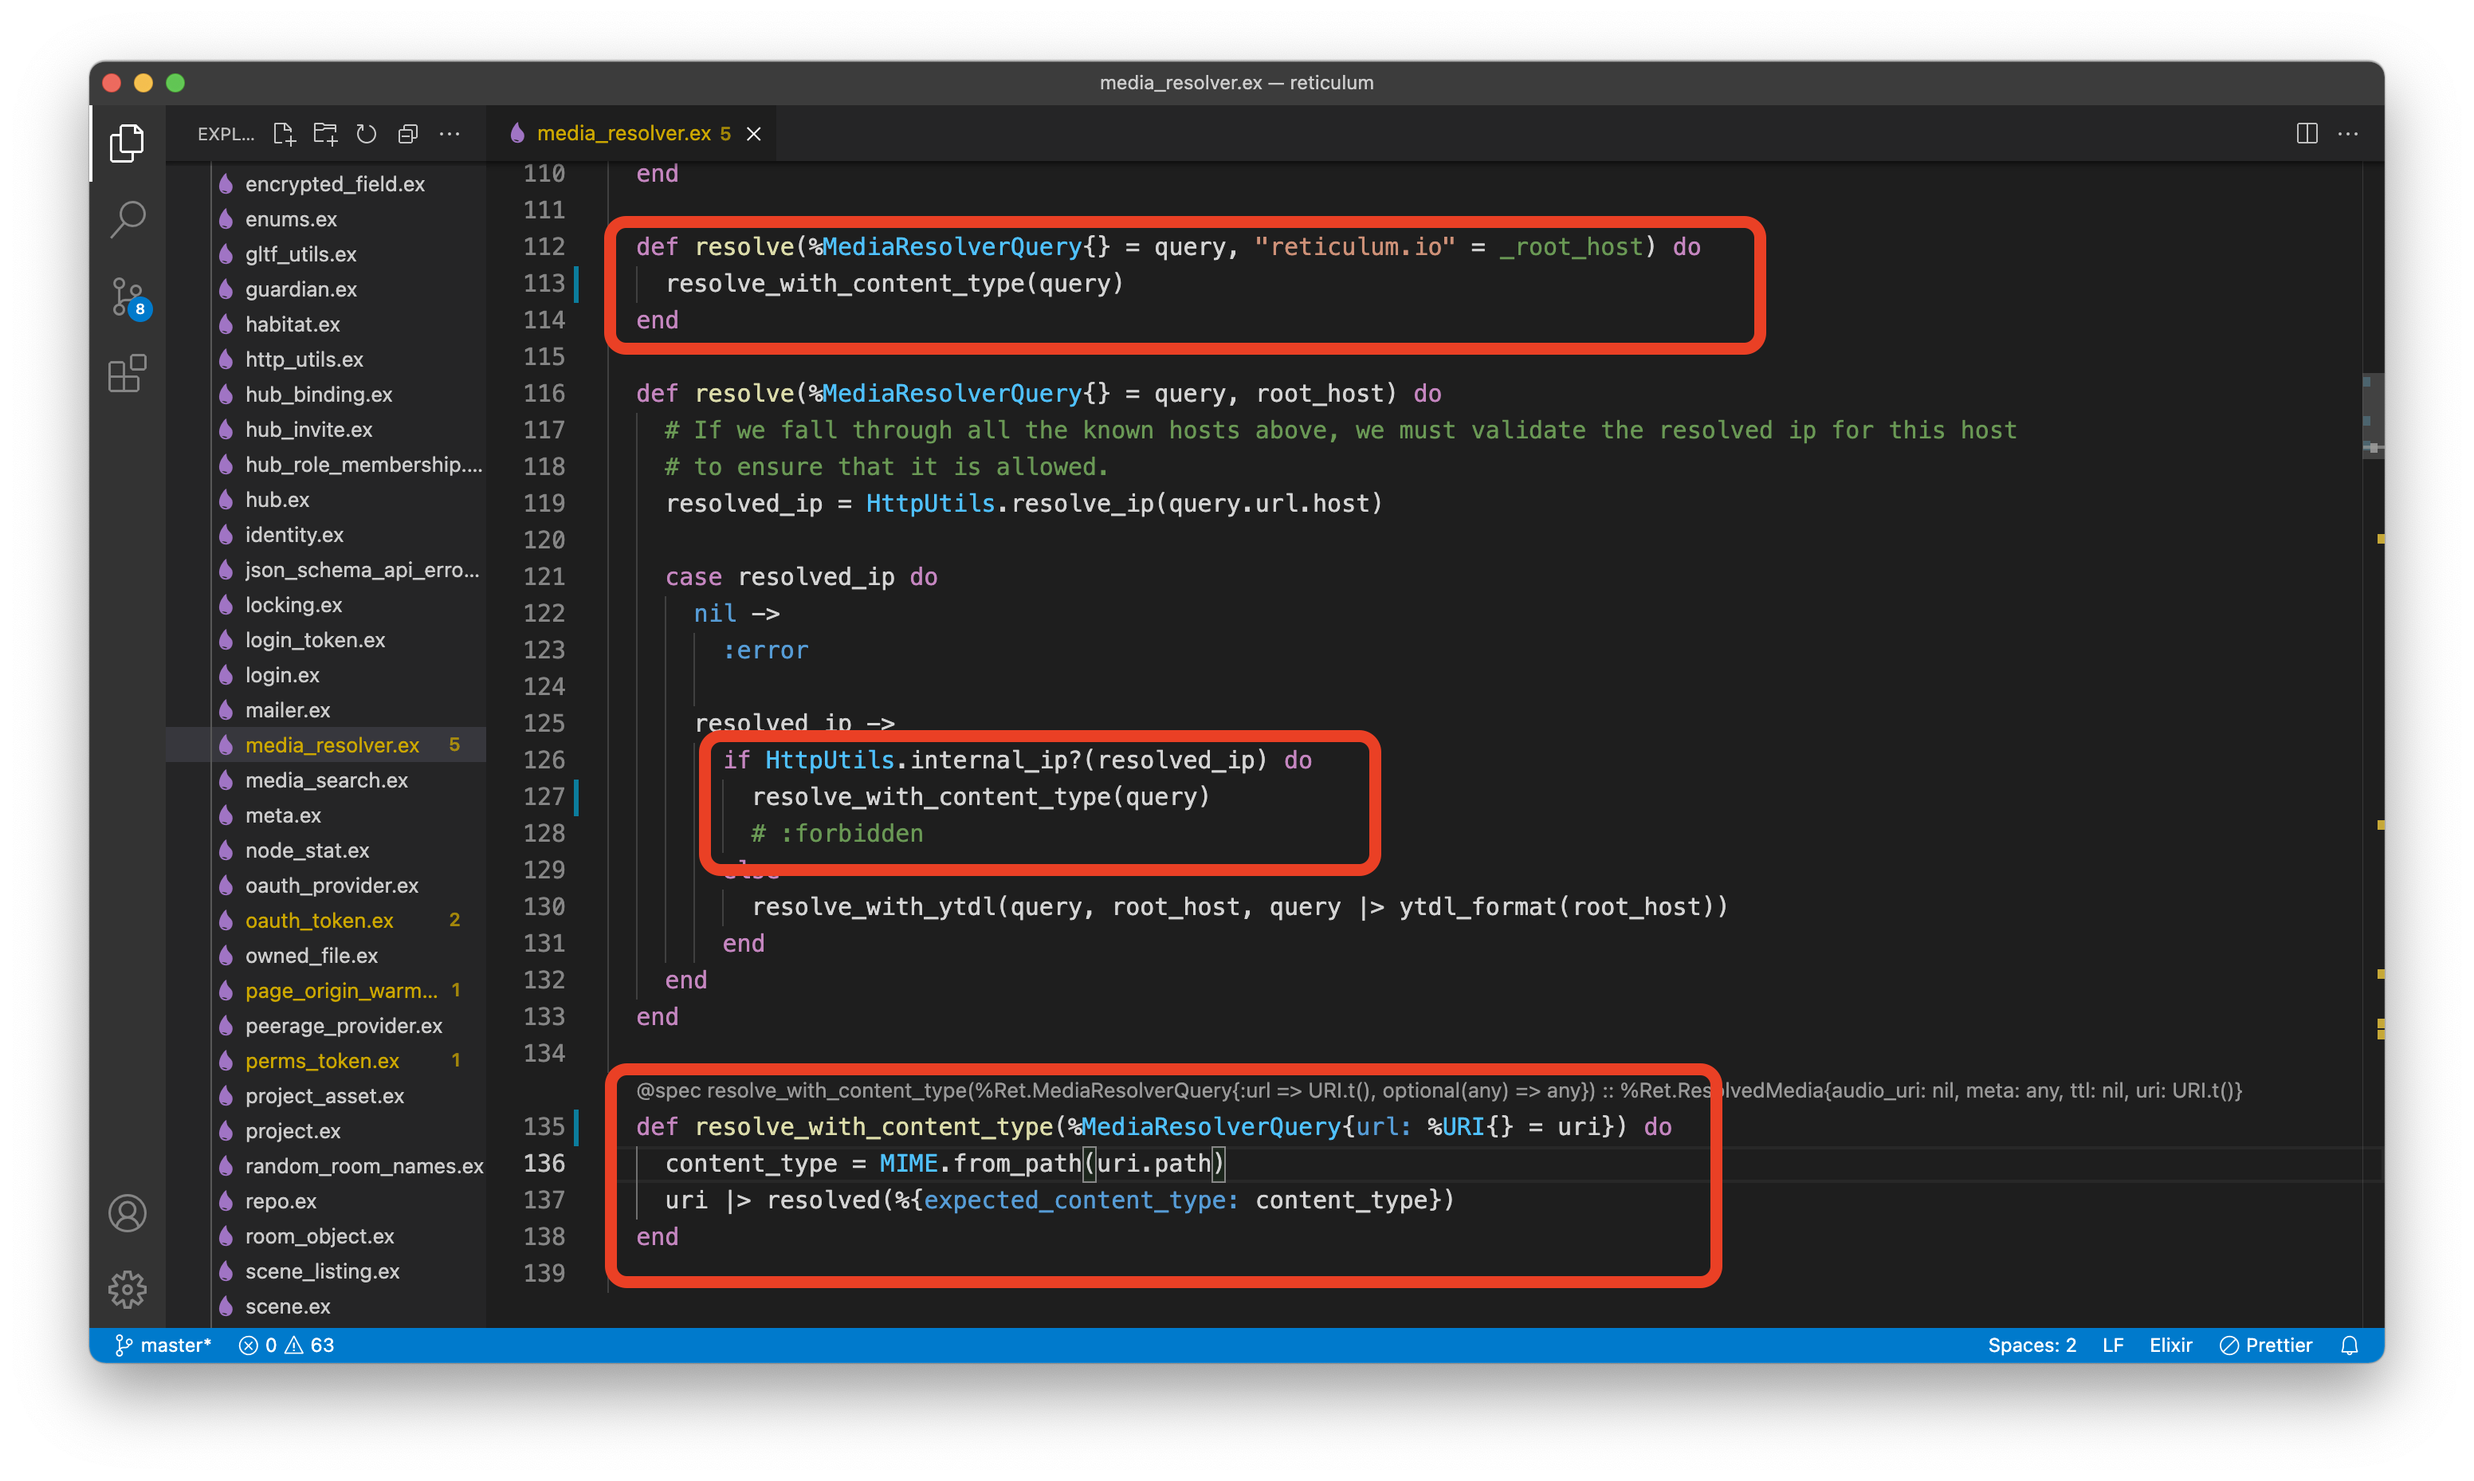
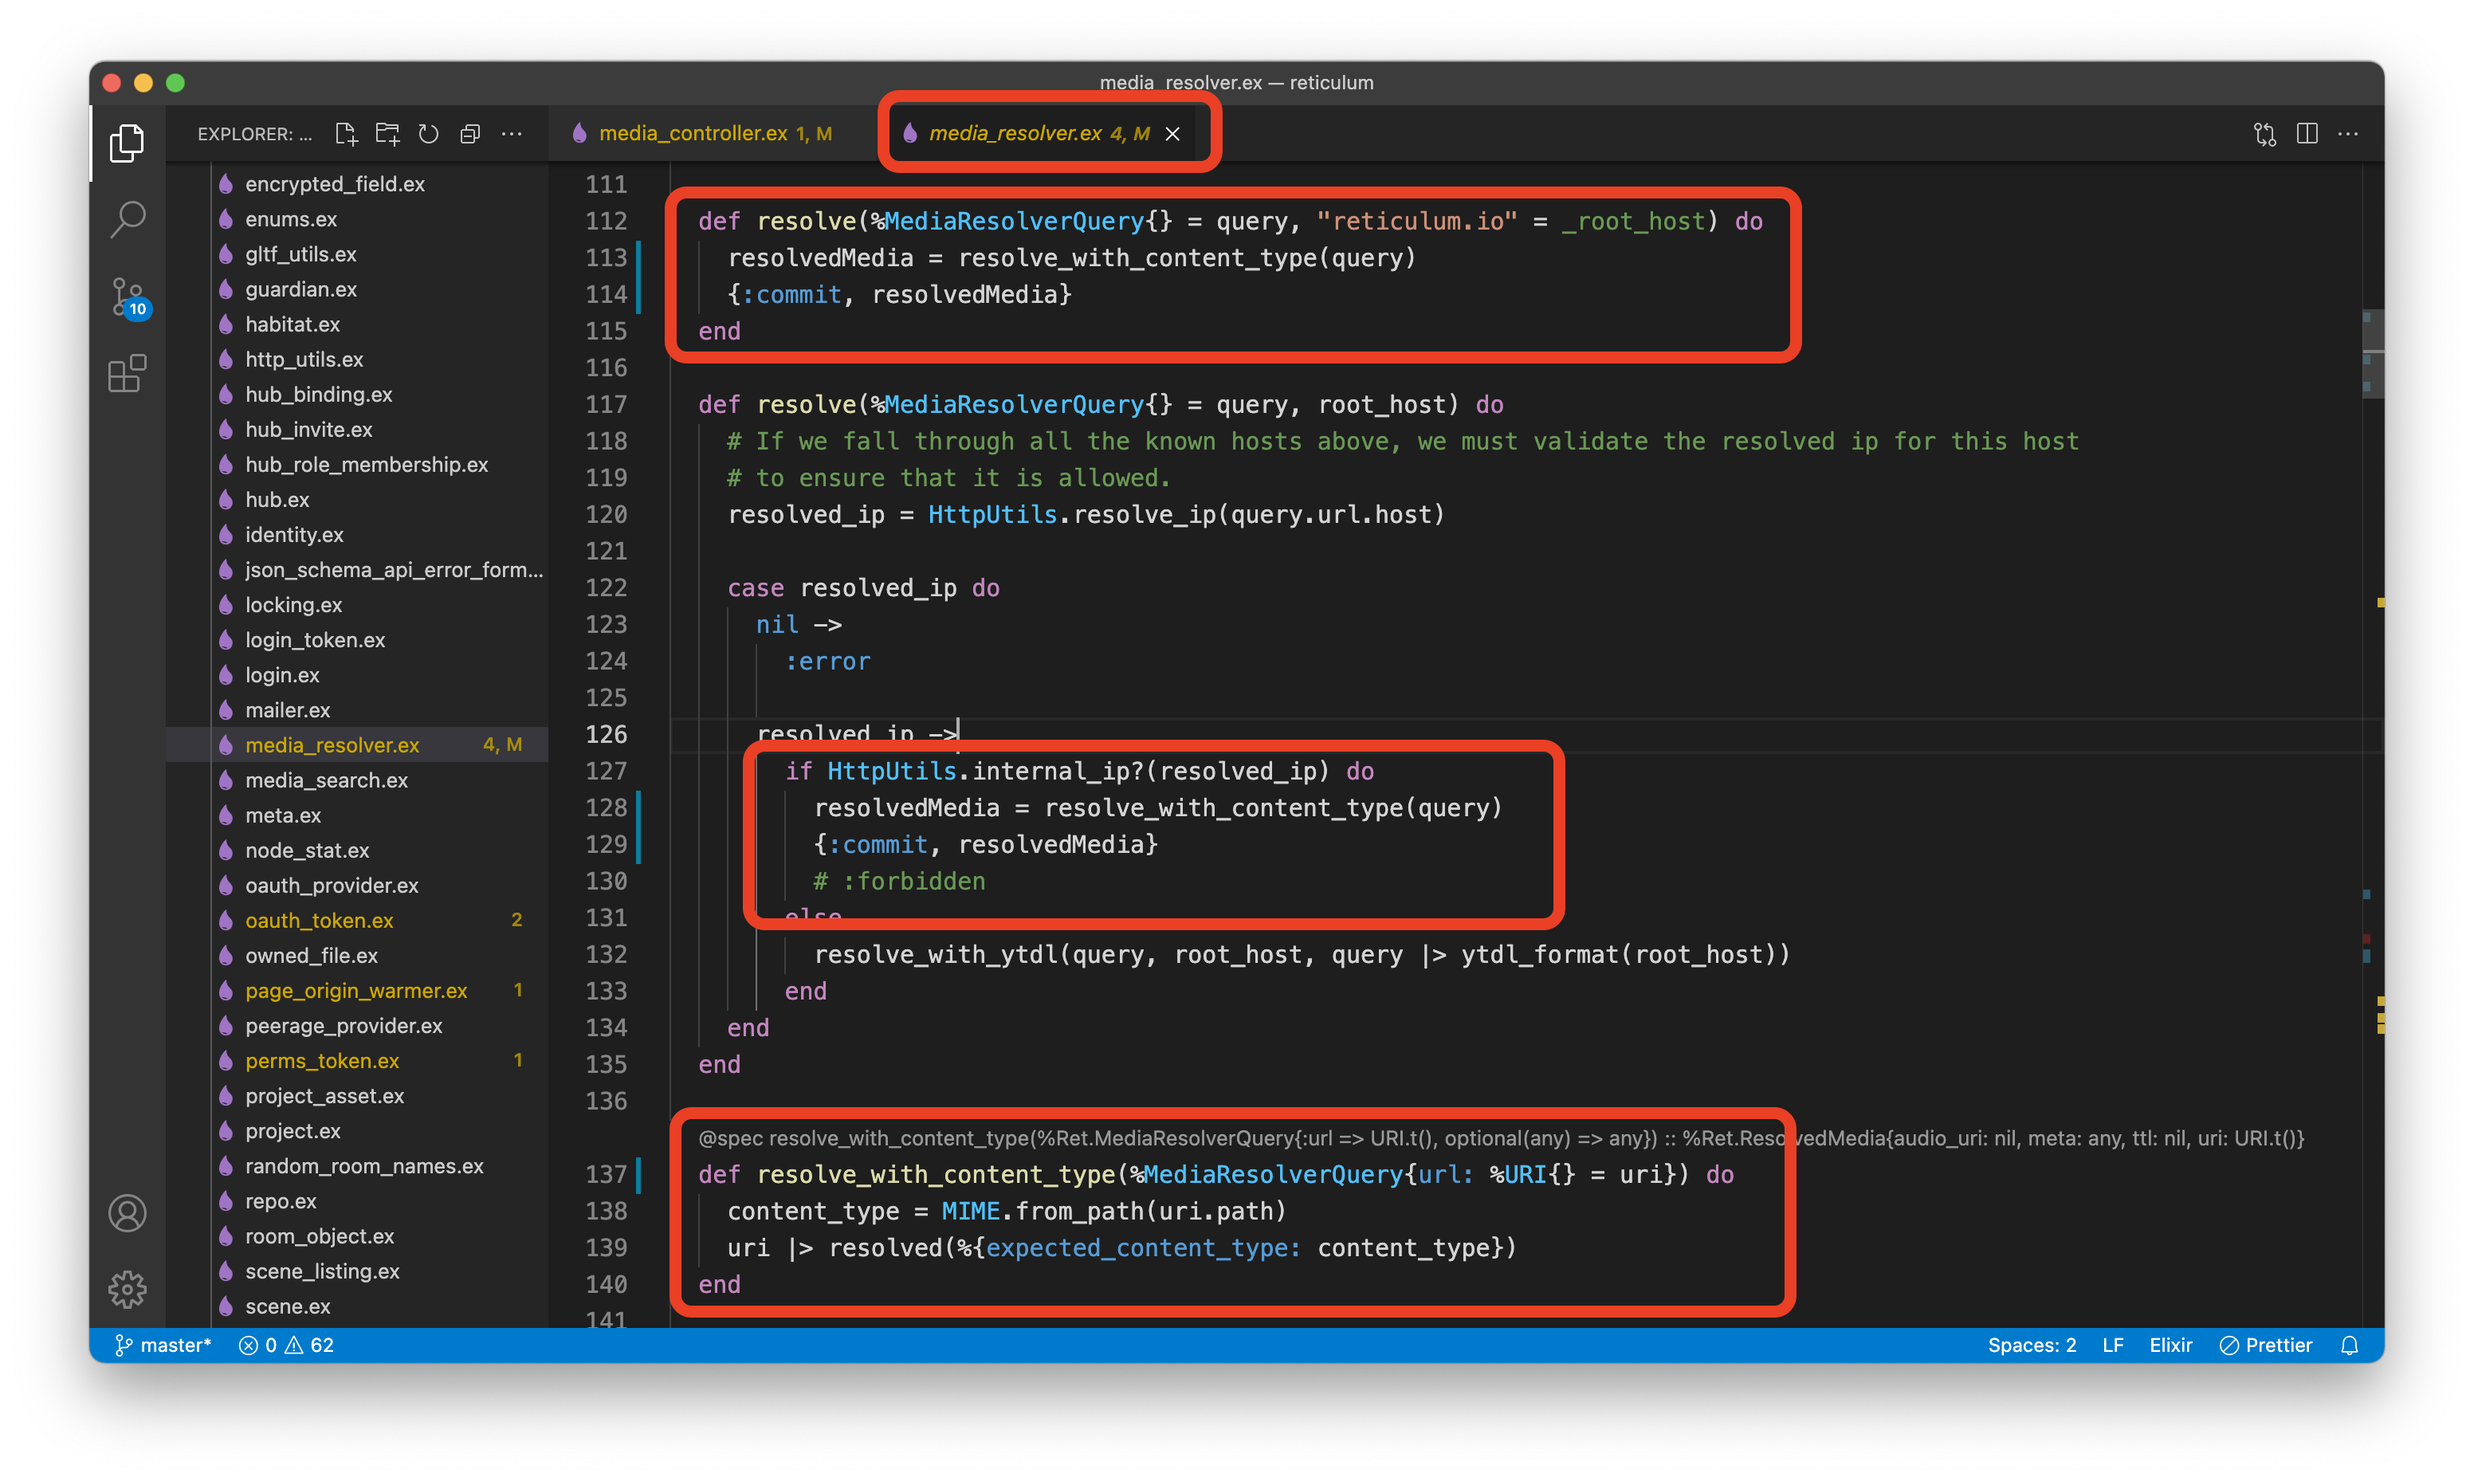
wrong solution

diff --git a/README.md b/README.md
@@ -350,6 +350,11 @@ Spoke
 
 https://github.com/mozilla/hubs/issues/4970#issue-1087523703
 
+<br>
+<br>
+<br>
+<br>
+
 # The problem i faced and i already solved
 
 ## 1. Local scene asset failed to load 403 Forbidden
@@ -357,21 +362,6 @@ https://github.com/mozilla/hubs/issues/4970#issue-1087523703
 Api call POST to `/api/v1/media` 403 Forbidden
 
 ![Local assets](/docs_img//local_assets_failed.png)
-
-Solved with
-
-Goto `media_resolver.ex` file and change the return `:forbidden` with return from `resolve_with_local_assets`
-
-![Local assets](/docs_img//spoke_failed.png)
-
-Add this function
-
-```elixir
-def resolve_with_content_type(%MediaResolverQuery{url: %URI{} = uri}) do
-   content_type = MIME.from_path(uri.path)
-   uri |> resolved(%{expected_content_type: content_type})
-end
-```
 
 ## 2. Architecture Kit Failed to load and import
 
@@ -385,7 +375,30 @@ and make condition like this picture bellow
 
 On spoke if we want to import some object in architecture kit we got error 500 from api call POST to `/api/v1/media` like number 1 above.
 
-The solution is add another resolve function that `root_host` equal to `reticulum.io`
+## 3. Link thumbnail fail to load thumbnail
+
+Call `api/v1/media` got 500
+
+
+## The solution for number 1,2,3
+
+Goto `media_controller.ex` give fallback like this picture
+![Local assets](/docs_img/spoke_failed_2.png)
+
+Goto `media_resolver.ex` file and change the return `:forbidden` with like this picture
+
+![Local assets](/docs_img/spoke_failed.png)
+
+Add this function
+
+```elixir
+def resolve_with_content_type(%MediaResolverQuery{url: %URI{} = uri}) do
+   content_type = MIME.from_path(uri.path)
+   uri |> resolved(%{expected_content_type: content_type})
+end
+```
+
+Below is the solution for number 2. Add another resolve function that `root_host` equal to `reticulum.io`
 
 ```elixir
 def resolve(%MediaResolverQuery{} = query, "reticulum.io" = _root_host) do
